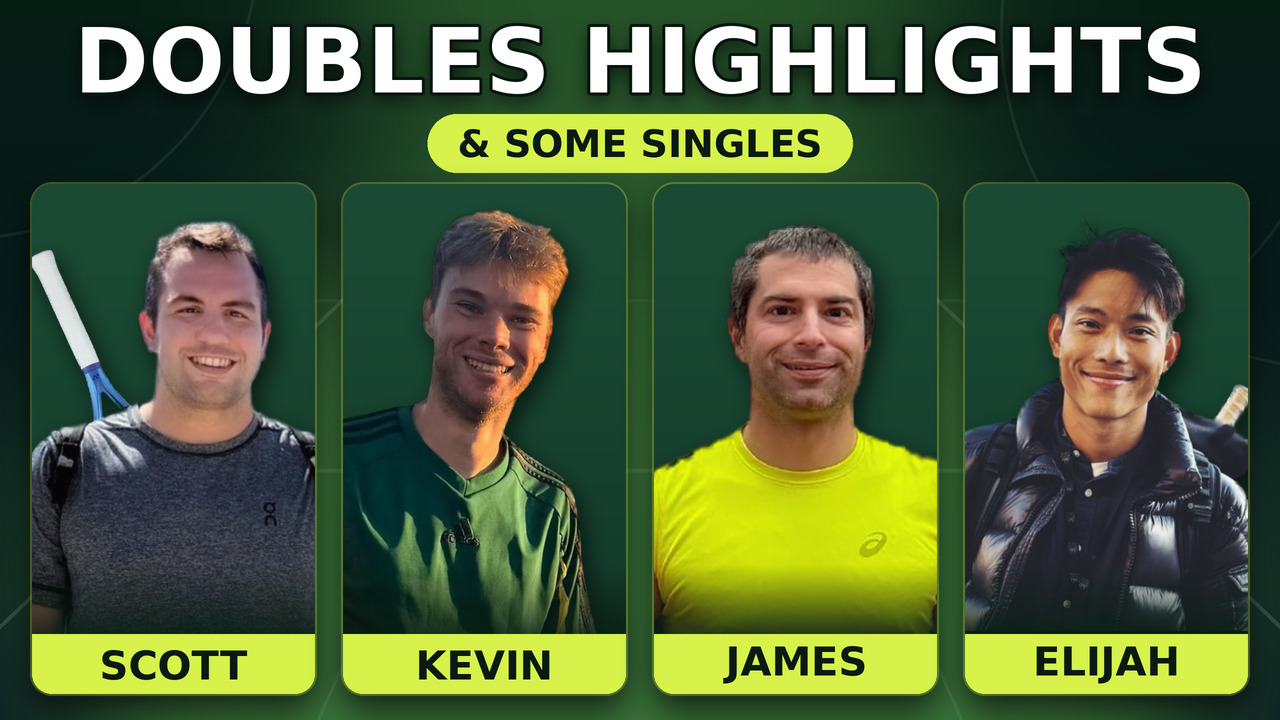
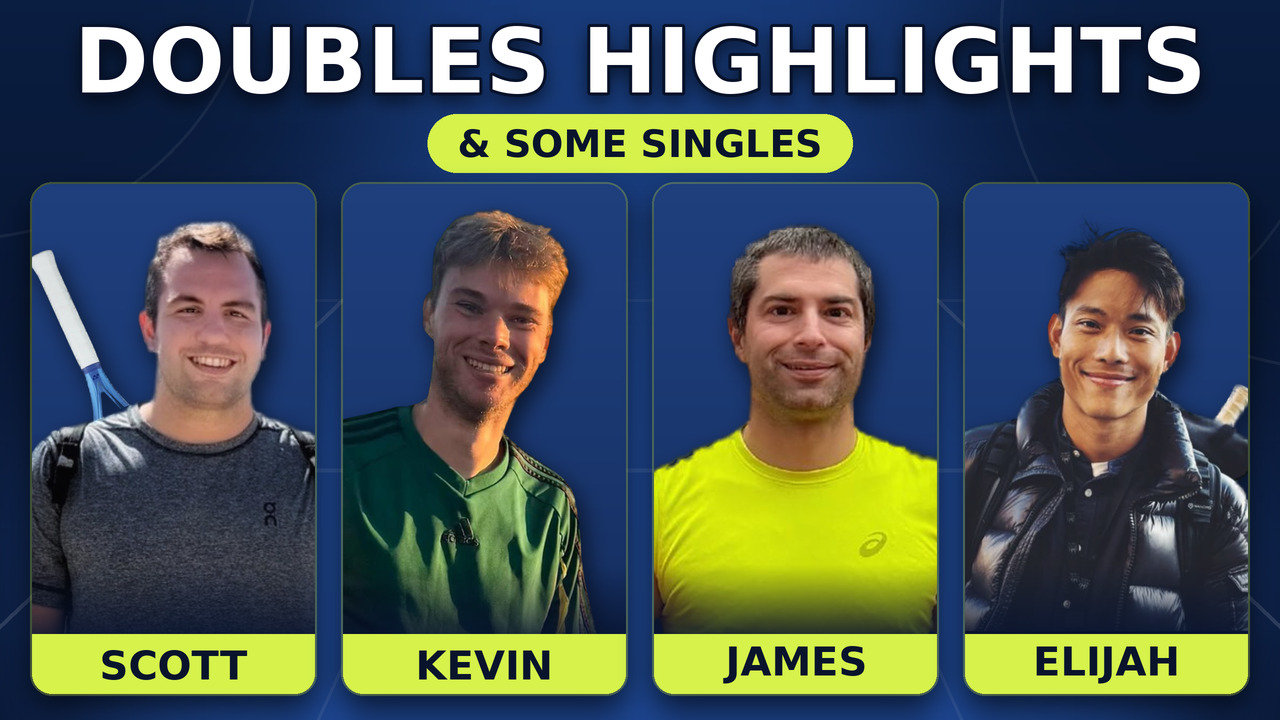
Switch cover to the hard-court blue palette
Pulls the colours out into a THEMES table so the palette can be changed
without touching the layout. `python3 cover/make_cover.py all` renders
every variant side by side; the default is now the blue hard court.

Claude-Session: https://claude.ai/code/session_01U8YoAzAAYbdUiYZWv5RoRu

diff --git a/cover/make_cover.py b/cover/make_cover.py
@@ -27,10 +27,32 @@ FONT = "/usr/share/fonts/truetype/dejavu/DejaVuSans-Bold.ttf"
 TITLE = "DOUBLES HIGHLIGHTS"
 SUBTITLE = "& SOME SINGLES"
 
-INK = (10, 26, 18)
-LIME = (214, 242, 75)
-DEEP = (7, 30, 21)
-NIGHT = (5, 18, 30)
+# Colour schemes. Pick one with `python3 cover/make_cover.py <name>`; the
+# layout is identical in every case, only the palette moves.
+THEMES = {
+    # Deep grass green, tennis-ball lime accents.
+    "grass": dict(deep=(7, 30, 21), night=(5, 18, 30), glow=(92, 176, 74),
+                  vignette=(2, 10, 8), card_lo=(17, 52, 38), card_hi=(26, 74, 52),
+                  fade=(9, 30, 21), accent=(214, 242, 75), ink=(10, 26, 18),
+                  stroke=(6, 22, 14)),
+    # Hard court: US Open blue under the same lime.
+    "hard": dict(deep=(10, 30, 66), night=(5, 14, 34), glow=(46, 108, 220),
+                 vignette=(3, 8, 22), card_lo=(19, 43, 90), card_hi=(30, 62, 124),
+                 fade=(8, 20, 48), accent=(214, 242, 75), ink=(9, 20, 44),
+                 stroke=(7, 18, 42)),
+    # Neutral graphite, lets the lime and the shirts do all the talking.
+    "slate": dict(deep=(30, 32, 35), night=(14, 15, 17), glow=(84, 90, 97),
+                  vignette=(6, 6, 7), card_lo=(40, 43, 47), card_hi=(57, 61, 66),
+                  fade=(18, 19, 21), accent=(214, 242, 75), ink=(18, 20, 14),
+                  stroke=(12, 13, 14)),
+    # Clay court: terracotta with chalk-line cream.
+    "clay": dict(deep=(84, 38, 24), night=(42, 19, 12), glow=(206, 98, 52),
+                 vignette=(22, 9, 6), card_lo=(97, 46, 31), card_hi=(128, 63, 42),
+                 fade=(44, 19, 12), accent=(246, 238, 224), ink=(58, 26, 16),
+                 stroke=(40, 17, 11)),
+}
+DEFAULT_THEME = "hard"
+THEME = THEMES[DEFAULT_THEME]
 
 # Per player: source file, name, and the head measurements (hair top, chin,
 # face centre x) taken off the original photo. Head height is what keeps every
@@ -97,12 +119,12 @@ def fit_font(text, target_w, cap=400):
 
 def background():
     """Dark court gradient with a lime glow behind the row of players."""
-    bg = Image.new("RGB", (s(W), s(H)), DEEP)
+    bg = Image.new("RGB", (s(W), s(H)), THEME["deep"])
     grad = Image.new("L", (1, s(H)))
     for y in range(s(H)):
         grad.putpixel((0, y), int(255 * (y / s(H)) ** 0.85))
     bg = Image.composite(
-        Image.new("RGB", bg.size, NIGHT), bg, grad.resize(bg.size)
+        Image.new("RGB", bg.size, THEME["night"]), bg, grad.resize(bg.size)
     )
 
     # Soft lime pool of light sitting behind the cards.
@@ -111,7 +133,7 @@ def background():
     gd.ellipse([s(60), s(190), s(W - 60), s(H + 240)], fill=150)
     gd.ellipse([s(330), s(-260), s(W - 330), s(250)], fill=90)
     glow = glow.filter(ImageFilter.GaussianBlur(s(80)))
-    bg = Image.composite(Image.new("RGB", bg.size, (92, 176, 74)), bg, glow)
+    bg = Image.composite(Image.new("RGB", bg.size, THEME["glow"]), bg, glow)
 
     d = ImageDraw.Draw(bg, "RGBA")
 
@@ -134,7 +156,7 @@ def background():
     vig = Image.new("L", (s(W), s(H)), 255)
     ImageDraw.Draw(vig).ellipse([s(-330), s(-250), s(W + 330), s(H + 250)], fill=0)
     vig = vig.filter(ImageFilter.GaussianBlur(s(120)))
-    bg = Image.composite(Image.new("RGB", bg.size, (2, 10, 8)), bg, vig)
+    bg = Image.composite(Image.new("RGB", bg.size, THEME["vignette"]), bg, vig)
     return bg.convert("RGBA")
 
 
@@ -151,7 +173,7 @@ def draw_title(canvas):
                                 fill=(0, 0, 0, 190))
     canvas.alpha_composite(shadow.filter(ImageFilter.GaussianBlur(s(9))))
     d.text((tx, ty), TITLE, font=title_font, fill=(255, 255, 255, 255),
-           stroke_width=s(3), stroke_fill=(6, 22, 14, 255))
+           stroke_width=s(3), stroke_fill=THEME["stroke"] + (255,))
 
     # Subtitle pill.
     sub_font = ImageFont.truetype(FONT, s(38))
@@ -160,9 +182,9 @@ def draw_title(canvas):
     pad_x, pad_y = s(30), s(15)
     pw, ph = sw + pad_x * 2, sh + pad_y * 2
     px, py = (s(W) - pw) // 2, s(26) + th + s(20)
-    d.rounded_rectangle([px, py, px + pw, py + ph], radius=ph // 2, fill=LIME)
+    d.rounded_rectangle([px, py, px + pw, py + ph], radius=ph // 2, fill=THEME["accent"])
     d.text((px + pad_x - sb[0], py + pad_y - sb[1]), SUBTITLE, font=sub_font,
-           fill=INK)
+           fill=THEME["ink"])
 
 
 def player_card(img, p):
@@ -171,8 +193,8 @@ def player_card(img, p):
     card = Image.new("RGBA", (cw, ch), (0, 0, 0, 0))
 
     # Card backdrop, a touch lighter than the page so faces separate from it.
-    back = Image.new("RGBA", (cw, ch), (17, 52, 38, 255))
-    top = Image.new("RGBA", (cw, ch), (26, 74, 52, 255))
+    back = Image.new("RGBA", (cw, ch), THEME["card_lo"] + (255,))
+    top = Image.new("RGBA", (cw, ch), THEME["card_hi"] + (255,))
     ramp = Image.new("L", (1, ch))
     for y in range(ch):
         ramp.putpixel((0, y), int(255 * (y / ch) ** 1.3))
@@ -209,15 +231,15 @@ def player_card(img, p):
     fade = Image.new("RGBA", (cw, s(70)), (0, 0, 0, 0))
     for y in range(s(70)):
         ImageDraw.Draw(fade).line([(0, y), (cw, y)],
-                                  fill=(9, 30, 21, int(215 * y / s(70))))
+                                  fill=THEME["fade"] + (int(215 * y / s(70)),))
     card.alpha_composite(fade, (0, plate_top - s(70)))
-    d.rectangle([0, plate_top, cw, ch], fill=LIME)
+    d.rectangle([0, plate_top, cw, ch], fill=THEME["accent"])
 
     name_font = fit_font(p["name"], cw - s(36), cap=s(40))
     nb = name_font.getbbox(p["name"])
     d.text(((cw - (nb[2] - nb[0])) // 2 - nb[0],
             plate_top + (s(PLATE_H) - (nb[3] - nb[1])) // 2 - nb[1]),
-           p["name"], font=name_font, fill=INK)
+           p["name"], font=name_font, fill=THEME["ink"])
 
     # Round the corners and add a hairline edge.
     mask = Image.new("L", (cw, ch), 0)
@@ -226,13 +248,13 @@ def player_card(img, p):
     card.putalpha(Image.composite(card.getchannel("A"), Image.new("L", (cw, ch), 0),
                                   mask))
     ImageDraw.Draw(card, "RGBA").rounded_rectangle(
-        [0, 0, cw - 1, ch - 1], radius=s(22), outline=(214, 242, 75, 70),
+        [0, 0, cw - 1, ch - 1], radius=s(22), outline=THEME["accent"] + (70,),
         width=s(2))
     return card
 
 
-def main():
-    imgs = cutouts()
+def render(imgs):
+    """Compose the whole cover at the current THEME and return it at 1280x720."""
     canvas = background()
     draw_title(canvas)
 
@@ -245,13 +267,26 @@ def main():
         canvas.alpha_composite(drop.filter(ImageFilter.GaussianBlur(s(14))))
         canvas.alpha_composite(card, (x, y))
 
-    out = canvas.convert("RGB").resize((W, H), Image.LANCZOS)
-    path = os.path.join(OUT_DIR, "youtube-cover.png")
-    out.save(path, optimize=True)
-    out.save(os.path.join(OUT_DIR, "youtube-cover.jpg"), quality=92,
-             subsampling=0)
-    print("wrote", path, out.size)
+    return canvas.convert("RGB").resize((W, H), Image.LANCZOS)
+
+
+def main(argv):
+    global THEME
+    names = argv[1:] or [DEFAULT_THEME]
+    if names == ["all"]:
+        names = list(THEMES)
+
+    imgs = cutouts()
+    for name in names:
+        THEME = THEMES[name]
+        out = render(imgs)
+        stem = "youtube-cover" if name == DEFAULT_THEME else "youtube-cover-" + name
+        path = os.path.join(OUT_DIR, stem + ".png")
+        out.save(path, optimize=True)
+        out.save(os.path.join(OUT_DIR, stem + ".jpg"), quality=92, subsampling=0)
+        print("wrote", path, out.size)
 
 
 if __name__ == "__main__":
-    main()
+    import sys
+    main(sys.argv)
